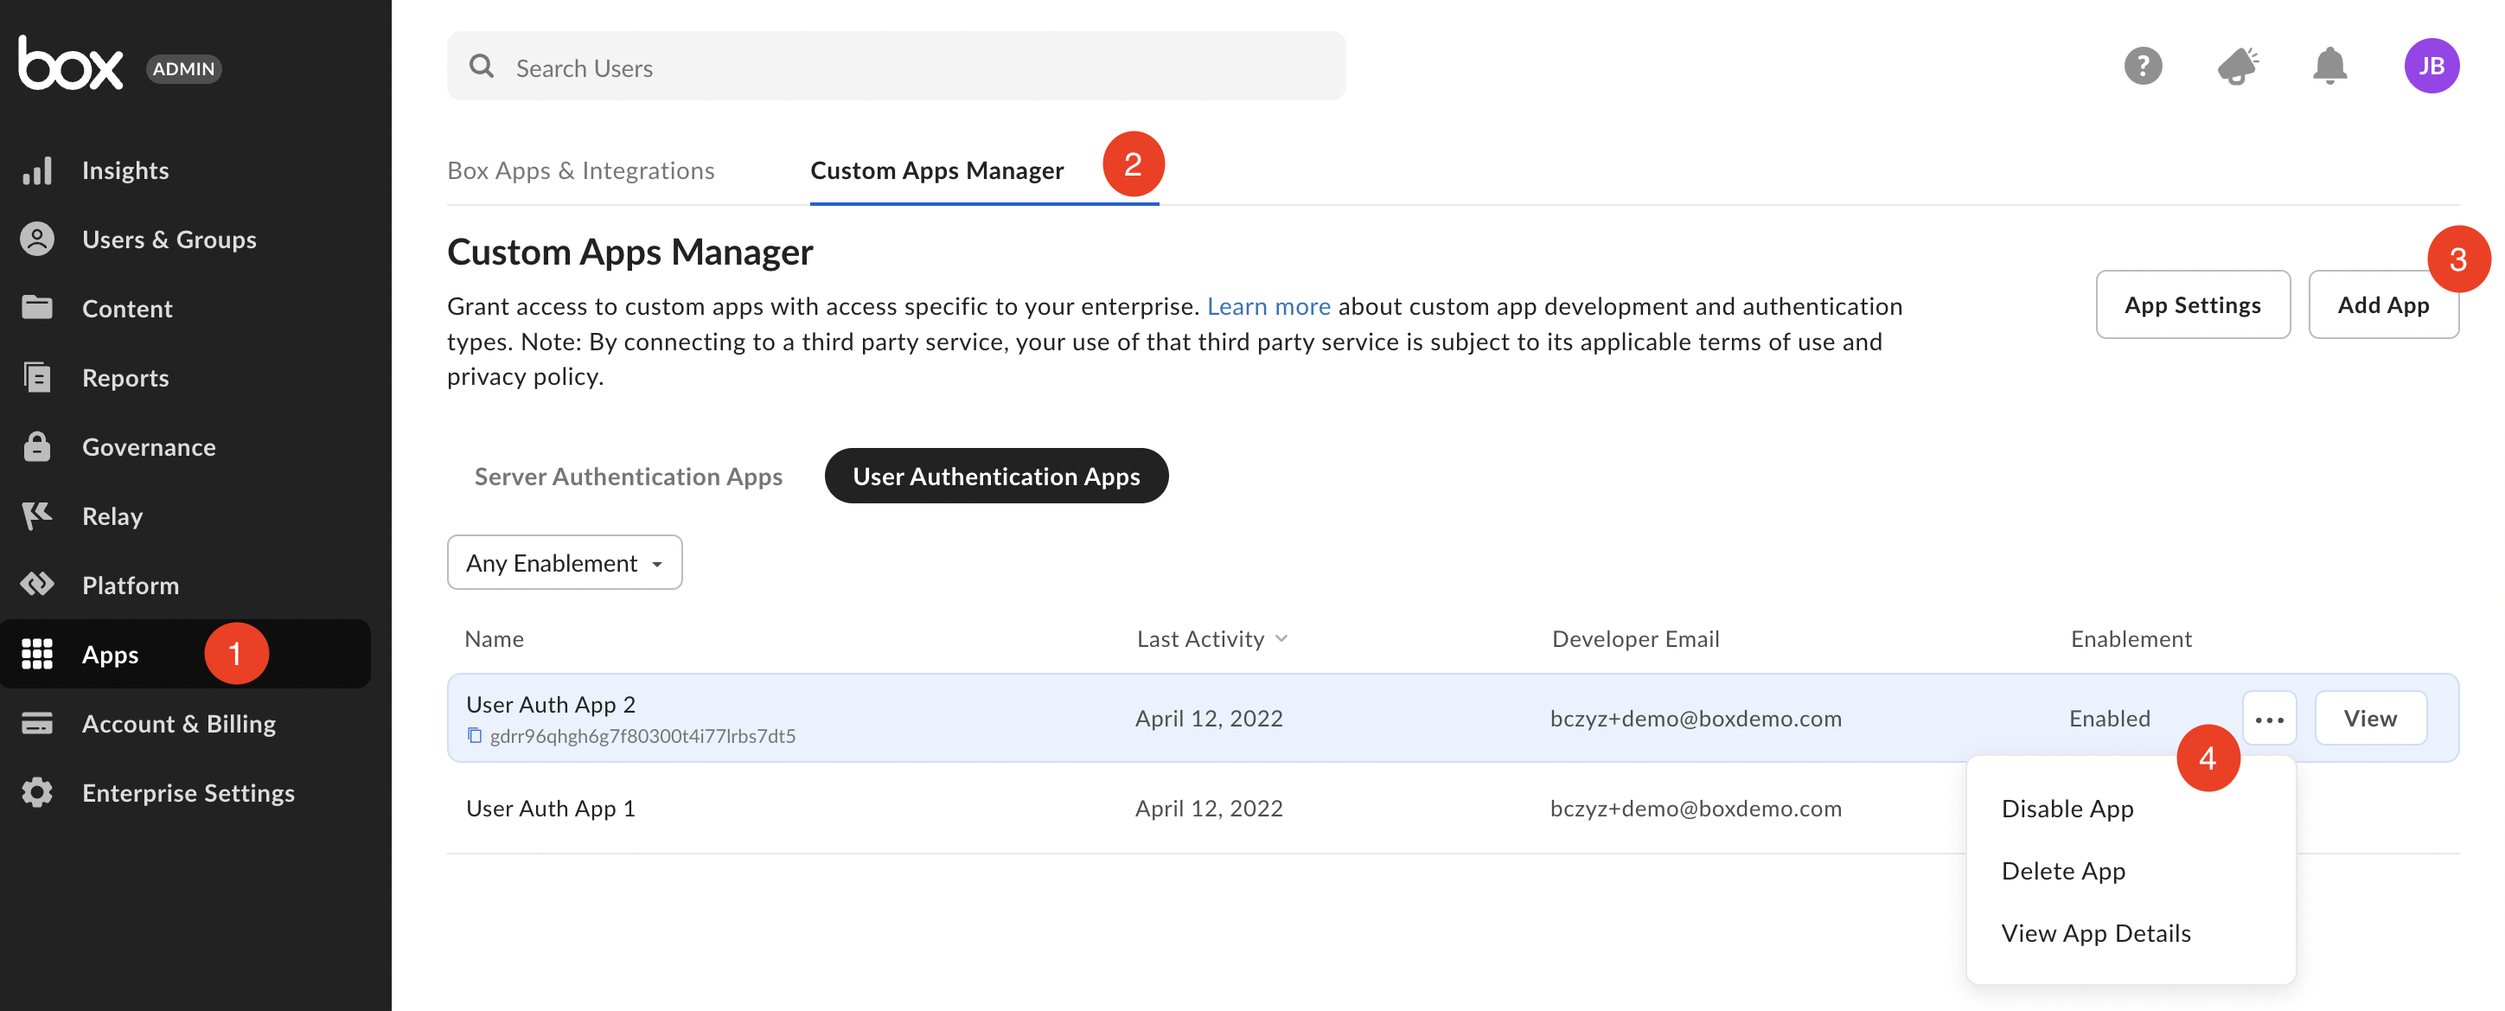
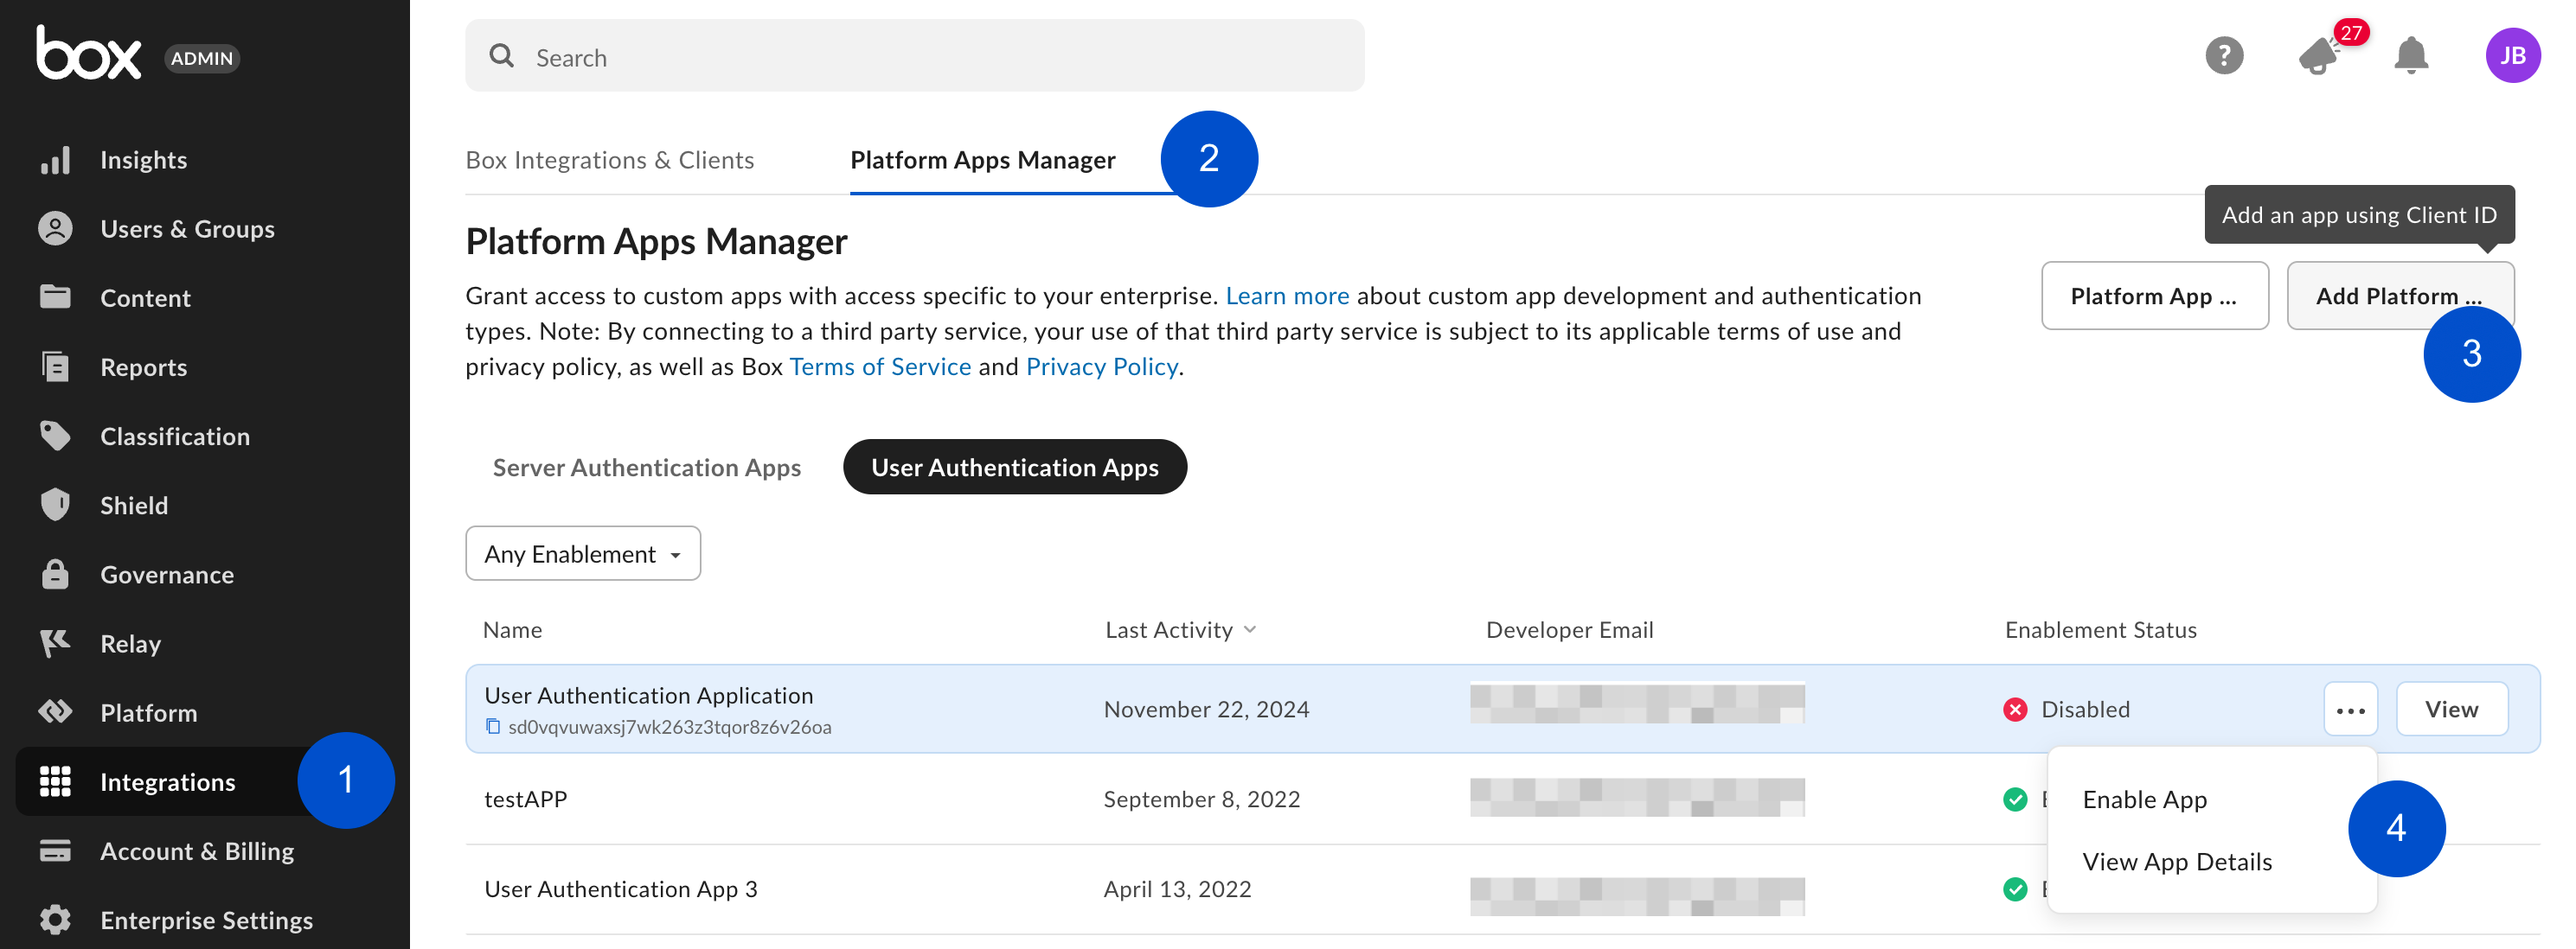
DDOC-1218: naming improvements

diff --git a/content/guides/authorization/index.md b/content/guides/authorization/index.md
@@ -33,16 +33,16 @@ Admin authorization based on enabled enterprise settings.
 Subsequent steps are required if any of the following enterprise settings are
 enabled:
 
-- Disable published Integrations by default
-- Disable unpublished Integrations by default
-- Require manual admin authorization for transactional access apps
+- Disable published third party apps by default
+- Disable unpublished apps by default
+- Require manual Admin authorization for Limited Access Apps
 
 These [settings][setting] can be found by navigating to:
 
-**Admin Console** > **Apps** > **Platform Apps** > click the ⚙ icon
+**Admin Console** > **Integrations** > **Platform Apps Manager** > **Platform Apps Settings** button.
 
 <Message tip>
-  Published integrations are any applications that can be found in our App Center.
+  Published Platform Apps are any applications that can be found under Integrations.
 </Message>
 
 ## Required actions
@@ -51,7 +51,7 @@ To see what steps an Admin must complete for a given app, review the following
 scenarios.
 
 <!--alex ignore-->
-**Disable Integrations by default**:
+**Disable published third party apps by default**:
 
 | Authentication Method                            | Enabled                                     | Disabled
 | ------------------------------------------------ | ------------------------------------------- | -------------- |
@@ -60,23 +60,23 @@ scenarios.
 |[Server Authentication (client credentials)][cc]  | N/A                                         | N/A            |
 |[App Token Authentication][apptoken]              | N/A                                         | N/A            |
 
-**Disable unpublished integrations by default**:
+**Disable unpublished apps by default**:
 
 | Authentication Method                            | Enabled                                                                             | Disabled
 | ------------------------------------------------ | ----------------------------------------------------------------------------------- | --------------------------------------- |
-|[OAuth 2.0][standauth]                            | Enable in **Apps** > **Platform Apps Manager** > **User Authentication Apps** > **Platform App** | Ready for use                           |
-|[Server Authentication (with JWT)][jwt]           | Authorize and enable in **Integrations** > **Platform Apps Manager** > **Server Authentication Apps** > **Add Platform App** | Authorize in **Integrations** > **Platform Apps Manager** > **Server Authentication Apps** > **Add Platform App** |
-|[Server Authentication (client credentials)][cc]  | Authorize and enable in **Apps** > **Platform Apps Manager** > **Server Authentication Apps** | Authorize in **Integrations** > **Platform Apps Manager** > **Server Authentication Apps** > **Add Platform App** |
-|[App Token Authentication][apptoken]              | Authorize and enable in **Integrations** > **Platform Apps Manager** > **Server Authentication Apps** > **Server Authentication Apps** > **Add Platform App** | Ready for use                           |
+|[OAuth 2.0][standauth]                            | Enable in **Integrations** > **Platform Apps Manager** > **User Authentication Apps** > Select Platform App > Use **More** menu to enable the app. | Ready for use                           |
+|[Server Authentication (with JWT)][jwt]           | Authorize and enable in **Integrations** > **Platform Apps Manager** > **Server Authentication Apps** Select Platform App > Use **More** menu to authorize the app. | Authorize in **Integrations** > **Platform Apps Manager** > **Server Authentication Apps** > Select Platform App > Use **More** menu to authorize the app. |
+|[Server Authentication (client credentials)][cc]  | Authorize and enable in **Apps** > **Platform Apps Manager** > **Server Authentication Apps** > Select Platform App > Use **More** menu to authorize the app.| Authorize in **Integrations** > **Platform Apps Manager** > **Server Authentication Apps** > Select Platform App > Use **More** menu to enable the app. |
+|[App Token Authentication][apptoken]              | Authorize and enable in **Integrations** > **Platform Apps Manager** > **Server Authentication Apps** > **Server Authentication Apps** > Select Platform App > Use **More** menu to enable the app. | Ready for use                           |
 
-**Require manual admin authorization for transactional access apps**:
+**Require manual Admin authorization for Limited Access Apps**:
 
 | Authentication Method                            | Enabled                                                                  | Disabled                                             |
 | ------------------------------------------------ | ------------------------------------------------------------------------ | ---------------------------------------------------- |
 |[OAuth 2.0][standauth]                            | N/A                                                                      | N/A                                                  |
 |[Server Authentication (with JWT)][jwt]           | N/A                                                                      | N/A                                                  |
 |[Server Authentication (client credentials)][cc]  | N/A                                                                      | N/A                                                  |
-|[App Token Authentication][apptoken]              | Authorize in **Integrations** > **Platform Apps Manager** > **Server Authentication Apps** | Automatically authorized and enabled upon creation   |
+|[App Token Authentication][apptoken]              | Authorize in **Integrations** > **Platform Apps Manager** > **Server Authentication Apps** Select Platform App > Use **More** menu to authorize the app. | Automatically authorized and enabled upon creation   |
 
 <!--alex enable-->
 

diff --git a/content/guides/authorization/limited-access-approval.md b/content/guides/authorization/limited-access-approval.md
@@ -17,7 +17,7 @@ Limited Access Integrations are automatically authorized for use in an enterpris
 creation. 
 
 However, if the enterprise setting to
-**Require manual admin authorization for transactional access apps** is enabled,
+**Require manual Admin authorization for Limited Access Apps** is enabled,
 an Admin must preform additional steps. 
 
 ## Approval Notifications
@@ -43,24 +43,29 @@ application.
 
 ### As a developer
 
-As the developer, navigate to the **Configuration** tab for your application
-in the [Developer Console][devconsole]. Scroll down to the OAuth 2.0 Credentials
-section and copy the Client ID value to provide to a Box Admin.
+1. Navigate to the **Configuration** tab for your application in the [Developer Console][devconsole].
+2. Scroll down to the OAuth 2.0 Credentials section and copy the **Client ID** value to provide to a Box Admin.
+
+Alternatively, hover over the application in the
+[My Platform Apps][apps] view to look up the **ClientID** and then
+copy it using the `copy` button.
+
+<ImageFrame border center>
+  ![Copy feature for Client ID in Platform Apps Manager](images/copy_client_id.png)
+</ImageFrame>
 
 <Message>
   # Finding a Box Admin
 
   If you don't know your enterprise Admin, go to your Box [Account
   Settings][settings] page and scroll to the bottom. If an admin contact is set
-  you should see their contact  information under "Admin Contact".
+  you should see their contact  information under **Admin Contact**.
 </Message>
 
 ### As an Admin
 
 As a Box Admin, navigate to the [Admin Console][adminconsole] and
-select the **Integrations** tab (1) from the left navigation panel. Then, click the
-**Platform Apps** tab (2) at the top of your screen. On this screen, you will
-see a **+** button in the top right corner to add a new app authorization.
+select the **Integrations** > **Platform Apps Manager** > **Add Platform App**
 
 <ImageFrame border center>
   ![Apps tab](images/jwt_app_approval_flow.png)
@@ -96,3 +101,4 @@ of the application name to **Reauthorize App**.
 <!-- i18n-enable localize-links -->
 [app-auth]: https://support.box.com/hc/en-us/articles/360043697014-Authorizing-Apps-in-the-Box-App-Approval-Process
 <!-- i18n-disable localize-links -->
+[apps]: g://applications

diff --git a/content/guides/mobile/ios/quick-start/3-configure-box-app.md b/content/guides/mobile/ios/quick-start/3-configure-box-app.md
@@ -37,14 +37,14 @@ valid for one hour before having to be manually refreshed.
   To create a new Box application that may be used to generate a developer
   token, use the following steps.
 
-  1. Go to the [Developer Console][devconsole]
-  2. Select **Create Platform App**
-  3. Select **Platform App** as the type of application to create, and click **Next**
-  4. Select **OAuth 2.0 with JWT** as the authentication method, and click **Next**
-  5. Give your Box app a unique name and click **Create Platform App**
+  1. Go to the [Developer Console][devconsole].
+  2. Select **Create Platform App**.
+  3. Select **Custom App** as the type of application to create, and click **Next**.
+  4. Select **OAuth 2.0 with JWT** as the authentication method, and click **Next**.
+  5. Give your Box app a unique name and click **Create Platform App**.
   6. Go to the app's configuration by clicking **View Your Platform App**.
   7. Optionally, scroll to the **Required Access Scopes** section of the same screen and select any additional permissions you want to enable for this application.
-  8. At the top of the page click the button to **Save Changes**
+  8. At the top of the page click the button to **Save Changes**.
 </Choice>
 
 <Choice option='ios.app_type' value='use_own' color='blue'>

diff --git a/content/guides/authorization/custom-app-approval.md b/content/guides/authorization/custom-app-approval.md
@@ -75,7 +75,7 @@ copy it using the `copy` button.
 
   If you don't know your enterprise Admin, go to your Box [Account
   Settings][settings] page and scroll to the bottom. If an admin contact is set
-  you should see their contact information under "Admin Contact".
+  you should see their contact information under **Admin Contact**.
 </Message>
 
 ### As an Admin
@@ -88,7 +88,7 @@ copy it using the `copy` button.
 #### Server Authentication Apps
 
 <ImageFrame border center>
-  ![Server tab](images/jwt_app_approval_flow.png)
+  ![Server tab](images/oauth_app_approval_flow.png)
 </ImageFrame>
 
 #### User Authentication Apps

diff --git a/content/guides/collaborations/connect-slack-to-group-collabs/1-configure-slack.md b/content/guides/collaborations/connect-slack-to-group-collabs/1-configure-slack.md
@@ -18,7 +18,7 @@ This section will take you through the following steps.
 
 ## Create a minimal Slack app
 
-Go to the **[Slack apps page][slack-apps]** and click **Create Platform App**. Add
+Go to the **[Slack apps page][slack-apps]** and click **Create an App**. Add
 an **App Name**, select your **Development Slack Workspace** from the dropdown
 list where the bot will be deployed to, then click **Create App**.
 

diff --git a/content/pages/platform/box-platform-101.md b/content/pages/platform/box-platform-101.md
@@ -97,7 +97,7 @@ web app, they should be able to access it using the API.
 ### Application Type
 
 There are three main types of applications that can be created in the developer
-console. They include platform app, limited access app, and custom skills. You
+console. They include Custom App, Limited Access App, and Box Custom Skills. You
 can also create third party and web app integrations.
 
 <ImageFrame center>
